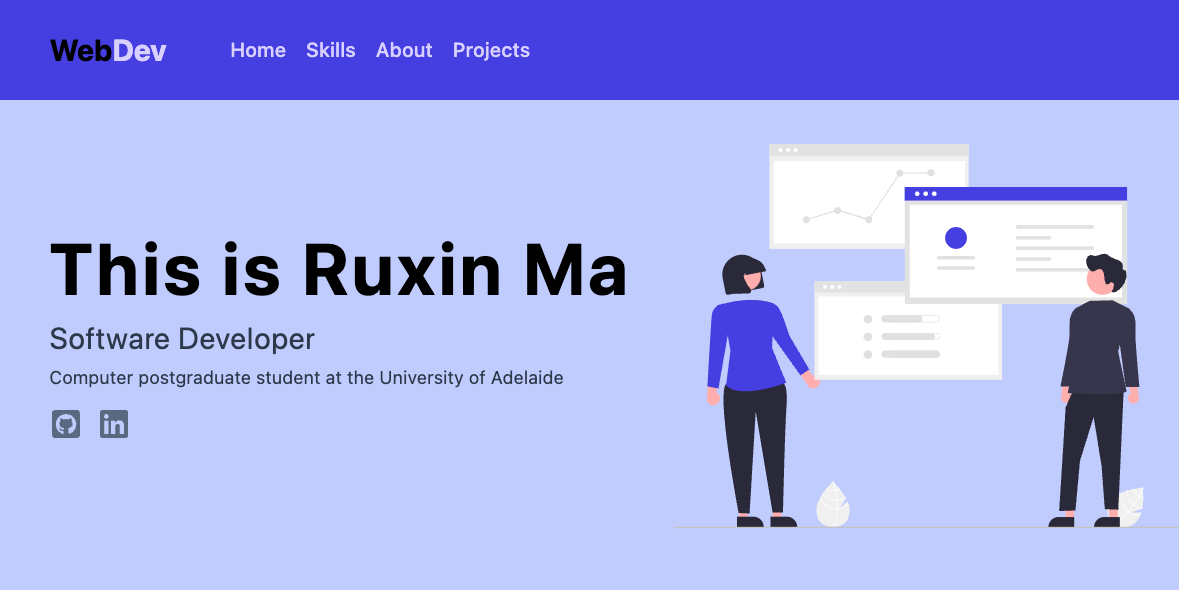
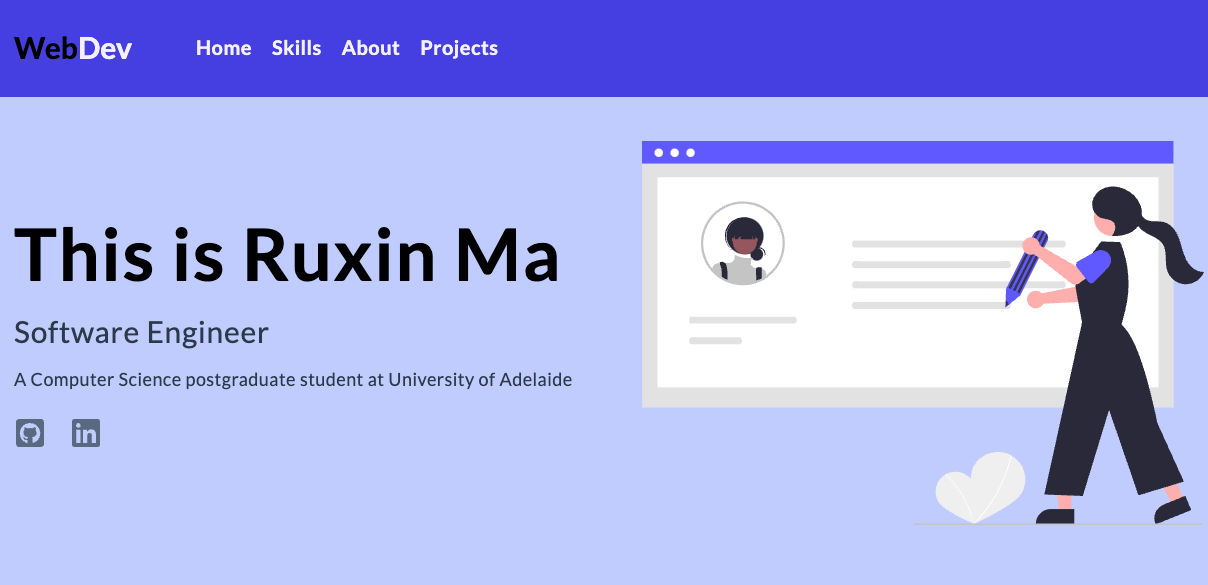
update hero and imgs

diff --git a/src/components/Hero.jsx b/src/components/Hero.jsx
@@ -1,29 +1,49 @@
 import heroImg from '../assets/hero.svg';
 import { FaGithubSquare, FaLinkedin } from 'react-icons/fa';
+// import { HiMiniDocumentText } from "react-icons/hi2";
 
 const Hero = () => {
   return (
-    <div className='bg-indigo-200 py-16'>
-      <div className='align-element grid md:grid-cols-2 items-center gap-8'>
+    <div className='bg-indigo-200 py-16 font-sans'>
+      <div className='align-element grid md:grid-cols-2 items-center gap-10'>
         <article>
-          <h1 className='text-7xl font-bold tracking-wider'>This is Ruxin Ma</h1>
-          <p className='mt-4 text-3xl text-slate-700 capitalize tracking-wide'>
-            Software Developer
+          <h1 className='text-7xl font-bold tracking-wide'
+          >
+            This is Ruxin Ma
+          </h1>
+          <p className='mt-6 text-3xl text-slate-700 capitalize tracking-wide'>
+            Software Engineer
           </p>
-          <p className='mt-2 text-lg text-slate-700 tracking-wide'>
-            Computer postgraduate student at the University of Adelaide
+          <p className='mt-4 text-lg text-slate-700 tracking-wide'>
+            A Computer Science postgraduate student at University of Adelaide
           </p>
-          <div className='flex gap-x-4 mt-4'>
-            <a href='https://github.com/RuxinMa'target='_blank'>
+          {/* social media */}
+          <div className='flex gap-x-6 mt-6'>
+          {/* <a 
+            href='/path-to-your-resume.pdf'
+            target='_blank'
+            rel='noopener noreferrer'
+          >
+            <HiMiniDocumentText className='h-8 w-8 text-slate-500 hover:text-black duration-300' />
+          </a> */}
+            <a 
+            href='https://github.com/RuxinMa'
+            target='_blank'
+            >
               <FaGithubSquare className='h-8 w-8 text-slate-500 hover:text-black duration-300' />
             </a>
-            <a href='https://www.linkedin.com/in/ruxin-ma/' target='_blank'>
+            <a 
+              href='https://www.linkedin.com/in/ruxin-ma/'
+              target='_blank'>
               <FaLinkedin className='h-8 w-8 text-slate-500 hover:text-black duration-300' />
             </a>
           </div>
         </article>
         <article className='hidden md:block'>
-          <img src={heroImg} className='h-80 lg:h-96' />
+          <img 
+            src={heroImg} 
+            className='h-80 lg:h-96'
+          />
         </article>
       </div>
     </div>

diff --git a/src/components/Navbar.jsx b/src/components/Navbar.jsx
@@ -6,7 +6,7 @@ const Navbar = () => {
       <div className='mx-auto max-w-7xl px-8 py-4 flex flex-col sm:flex-row sm:gap-x-16 sm:items-center sm:py-8'>
         <h2 className='text-3xl font-bold'>
           <span className='text-black'>Web</span>
-          <span className='text-violet-200'>Dev</span>
+          <span className='text-violet-50'>Dev</span>
         </h2>
         <div className='flex gap-x-5'>
           {links.map((link) => {
@@ -15,7 +15,7 @@ const Navbar = () => {
               <a 
                 key={id}
                 href={href}
-                className='capitalize text-xl text-violet-200 font-medium tracking-wide hover:text-indigo-600 hover:font-bold duration-300'
+                className='capitalize text-xl text-violet-50 font-semibold tracking-wide hover:text-indigo-400 hover:font-bold duration-300'
               >
                 {text}
               </a>

diff --git a/index.html b/index.html
@@ -5,6 +5,9 @@
     <link rel="icon" type="image/svg+xml" href="/vite.svg" />
     <meta name="viewport" content="width=device-width, initial-scale=1.0" />
     <title>My Portfolio</title>
+    <link rel="preconnect" href="https://fonts.googleapis.com">
+    <link rel="preconnect" href="https://fonts.gstatic.com" crossorigin>
+    <link href="https://fonts.googleapis.com/css2?family=Lato:ital,wght@0,100;0,300;0,400;0,700;0,900;1,100;1,300;1,400;1,700;1,900&family=Merriweather:ital,wght@0,300;0,400;0,700;0,900;1,300;1,400;1,700;1,900&family=Mukta:wght@200;300;400;500;600;700;800&family=Poppins:ital,wght@0,100;0,200;0,300;0,400;0,500;0,600;0,700;0,800;0,900;1,100;1,200;1,300;1,400;1,500;1,600;1,700;1,800;1,900&display=swap" rel="stylesheet">
   </head>
   <body>
     <div id="root"></div>

diff --git a/src/components/About.jsx b/src/components/About.jsx
@@ -7,7 +7,10 @@ const About = () => {
     <div className='bg-indigo-100'>
       <section className='py-20' id='about'>
         <div className='align-element grid md:grid-cols-2 items-center gap-6'>
-          <img src={aboutSvg} className='w-full h-72' />
+          <img 
+            src={aboutSvg} 
+            className='w-full h-72' 
+          />
           <article>
             <SectionTitle
               borderColor='#312e81'

diff --git a/src/components/SectionTitle.jsx b/src/components/SectionTitle.jsx
@@ -4,7 +4,7 @@ const SectionTitle = ({ borderColor, text, textColor }) => {
       style={{ borderBottom: `solid ${borderColor}` }} 
       className='pb-5'
     >
-      <h2 className={`text-3xl font-medium tracking-wider capitalize ${textColor}`}>{text}</h2>
+      <h2 className={`text-3xl font-semibold tracking-wider capitalize ${textColor}`}>{text}</h2>
     </div>
   );
 };

diff --git a/src/index.css b/src/index.css
@@ -7,3 +7,7 @@
     @apply mx-auto max-w-7xl px-8;
   }
 }
+
+body {
+  font-family: 'Lato', sans-serif;
+}

diff --git a/README.md b/README.md
@@ -16,9 +16,9 @@ Create a responsive website for personal portfolio，and the components include:
 
 ### Setup
 
-####```yarn install
+```yarn install
 
-####```yarn vite
+```yarn vite
 
 #### Setup Vite and Tailwind
 
